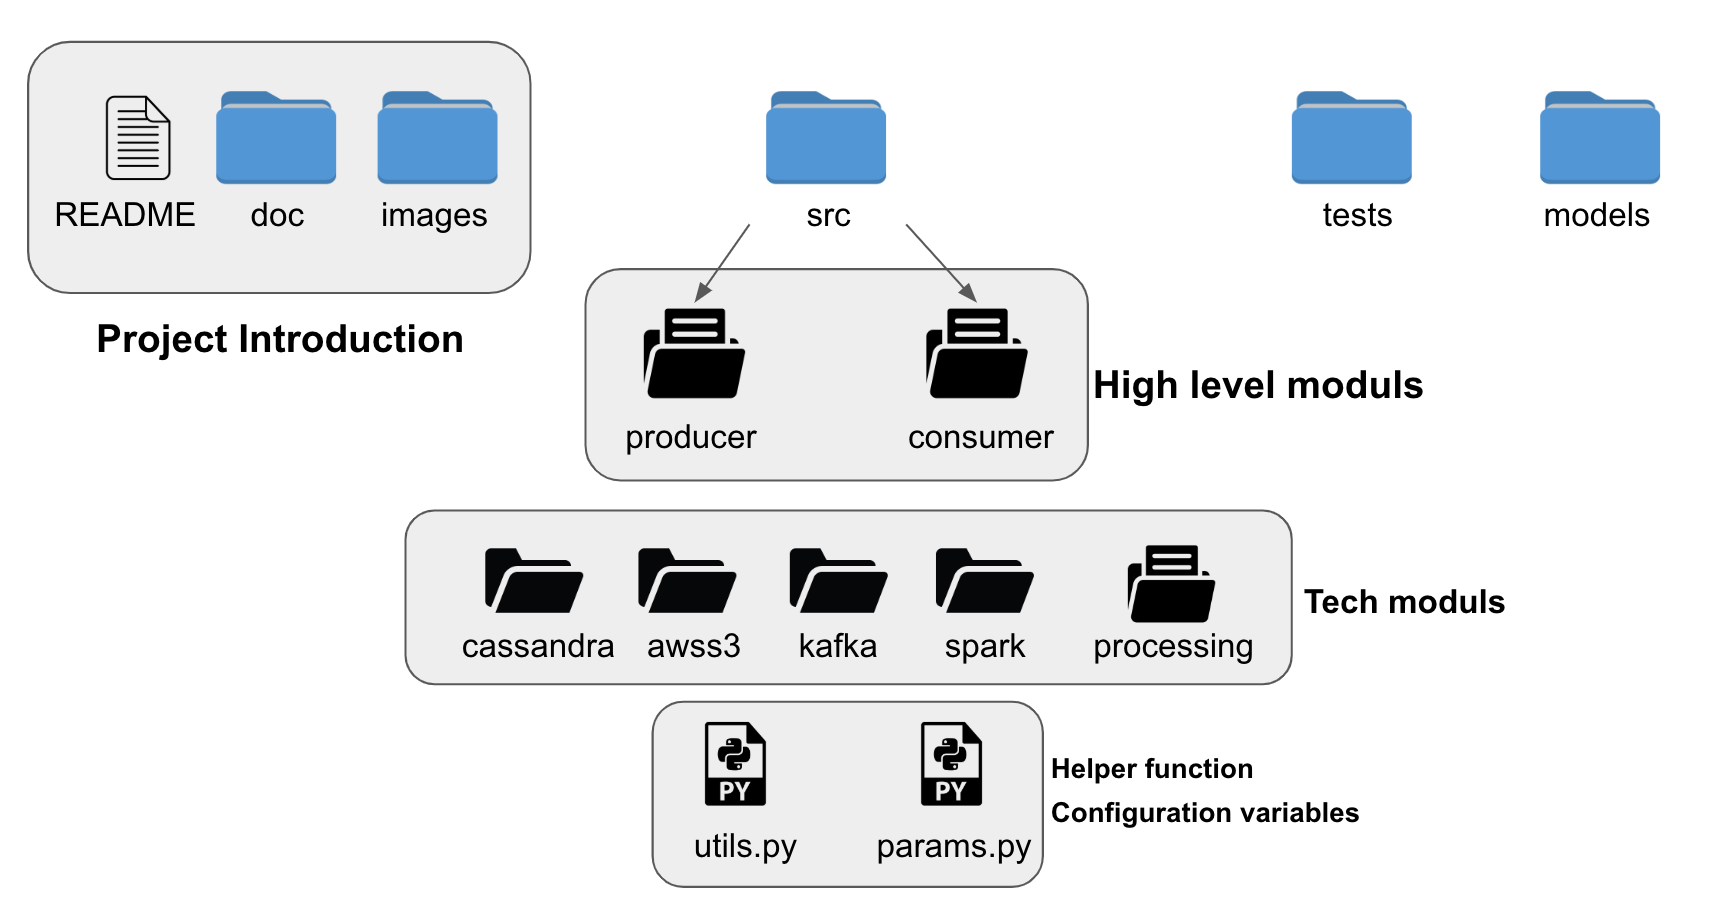
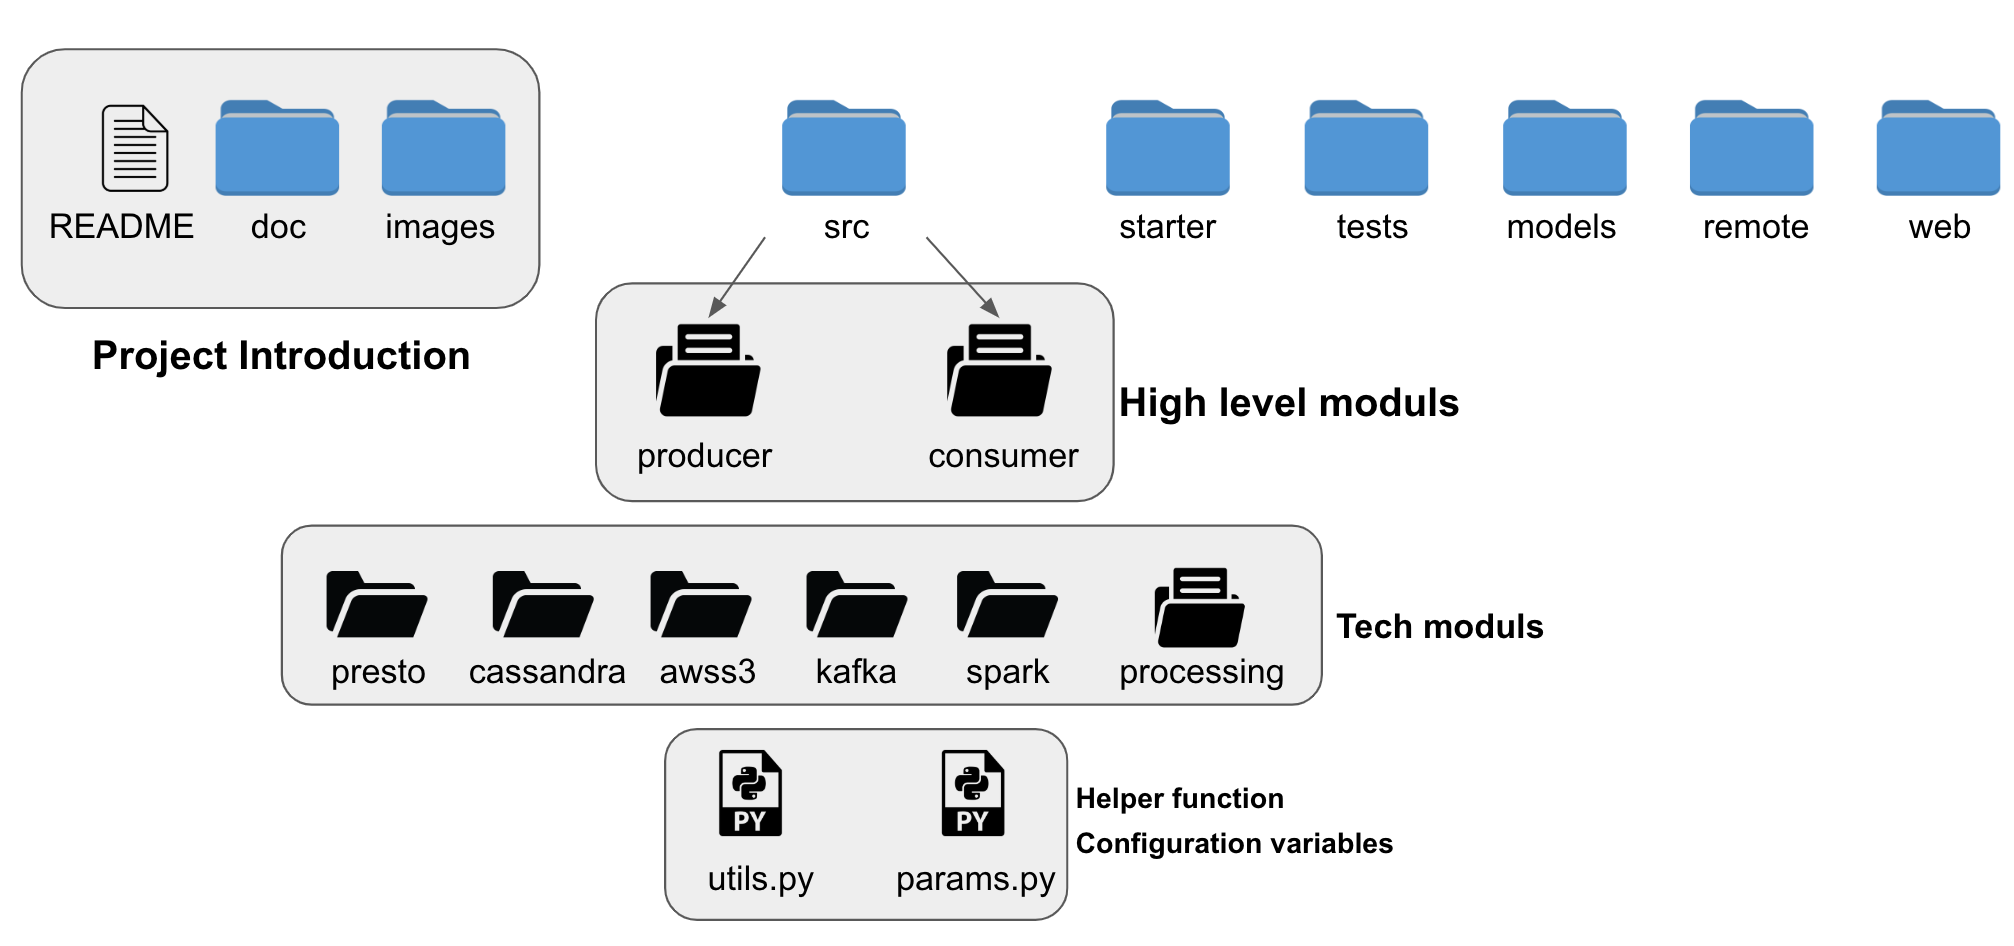
update readme

diff --git a/web/index.py b/web/index.py
@@ -82,6 +82,7 @@ def render_content(tab):
     elif tab == "annotator_tab":
         return annotator.layout
     elif tab == "dash_tab":
+        leads_df = db_manager.get_statistic().to_json(orient="split")
         return leads.layout
     else:
         return monitor.layout

diff --git a/README.md b/README.md
@@ -1,5 +1,10 @@
 # DASHCASH/CarsMemory
 
+Related Links:
+[Website](http://bit.ly/dashcam_plus)
+[Slides](https://docs.google.com/presentation/d/1rpKoqPEjO33VXdCXvOV6eAh8UahSFUxhIBhUzE4KeH4)
+[Demo](https://www.youtube.com/watch?v=l8Rcm1wlgvg)
+
 ## Introduction
 
 <img src="./images/chances.png" height="225" width="500" />
@@ -81,6 +86,12 @@ In summary:
 <img src="./images/architecture.png" height="225" width="500" />
 
 Above shows how the project code base is arranged.
+
+### UI Screen Shot
+![ui](./images/ui.png)
+
+### Keyframes Extraction Result Sample
+![sample](./images/sample.gif)
 
 ### Setup
 
